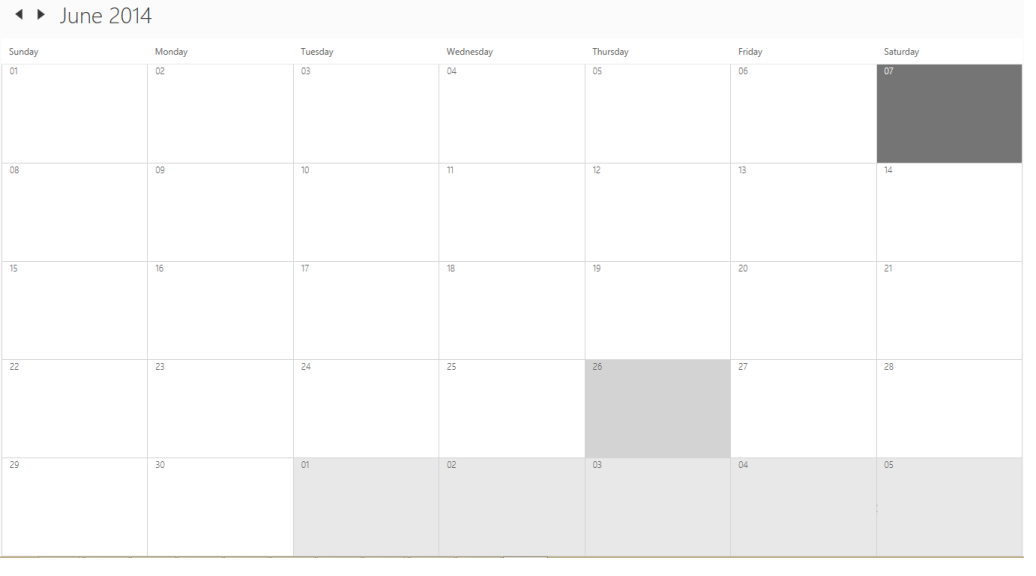
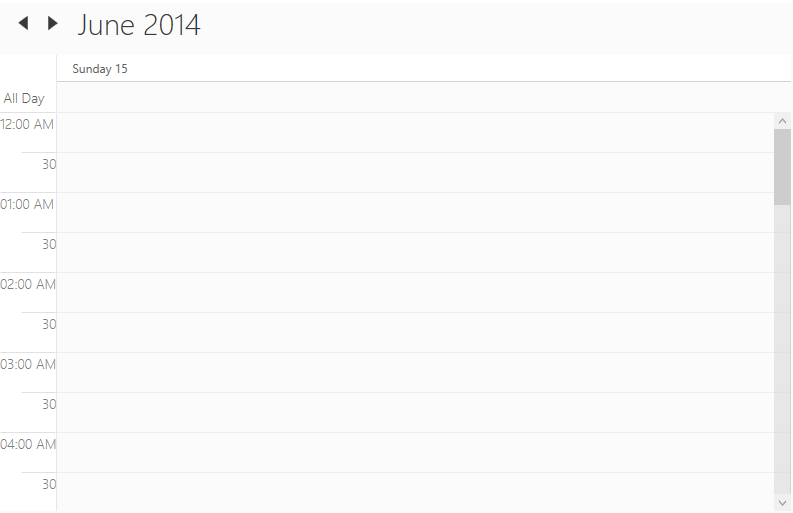
Basic view contents are modified.

diff --git a/wpf/SfSchedule/Basic-View.md b/wpf/SfSchedule/Basic-View.md
@@ -1,24 +1,27 @@
 ---
 layout: post
-title: Basic View| SfSchedule | Wpf | Syncfusion
-description: basic view
+title: Types of Schedule views at Syncfusion schedule for Wpf
+description: Learn what and all schedule views are available and how to use that views in SfSchedule control.
 platform: wpf
 control: SfSchedule
 documentation: ug
 ---
 
-# Basic View
+# Schedule Views
 
-Schedule provides 4 different types of viewing the calendar, 
+SfSchedule control provides five different types of views to display dates and it can be assigned to the control by using [ScheduleType](https://help.syncfusion.com/cr/wpf/Syncfusion.SfSchedule.WPF~Syncfusion.UI.Xaml.Schedule.ScheduleType.html) property. By default the control is assigned with `DayView`. Current date will be displayed initially for all the Schedule views.
+
+Schedule provides 5 different types of views which has mentioned below, 
 
 * Day
 * Week 
+* WorkWeek
 * Month
 * TimeLine
 
+## Day View
 
-
-Using the property “ScheduleType” of SfSchedule, we can set the above view. Refer to the following code to set the View type of schedule.
+`DayView` is used to display a single day, current day will be visible by default. Appointments on a specific day will be arranged in respective timeslots based on its duration.
 
 {% tabs %}
 {% highlight xaml %}
@@ -37,7 +40,7 @@ Using the property “ScheduleType” of SfSchedule, we can set the above view. 
 
     <Grid>
 
-        <schedule:SfSchedule ScheduleType="Month"/>
+        <schedule:SfSchedule ScheduleType="Day"/>
 
     </Grid>
 
@@ -56,25 +59,67 @@ namespace GettingStarted
 
         SfSchedule schedule = new SfSchedule();
 
-        schedule.ScheduleType = ScheduleType.Month;
+        schedule.ScheduleType = ScheduleType.Day;
 		
 		this.Content = schedule;
 	}
 	
 }
-
-this.grid.Children.Add(schedule);
-
-
 {% endhighlight %}
 {% endtabs %}
 
-![](Basic-View_images/Basic-View_img1.png)
+![Day-View](Basic-View_images/Basic-View_img1.png)
 
+## Week View
+`WeekView` is to view all days of a particular week. Appointments will be arranged based on the dates on the week in respective timeslots.
 
+{% tabs %}
+{% highlight xaml %}
+<schedule:SfSchedule x:Name="schedule" ScheduleType="Week"/>
+{% endhighlight%}
+{% highlight c# %}
+this.schedule.ScheduleType = ScheduleType.Week;
+{% endhighlight %}
+{% endtabs %}
 
-Month View Scheduling
-{:.caption}
+![Week-view](Basic-View_images/Basic-View_img2.png)
 
+## Work Week View
+`WorkWeekView` is to view only working days of a particular week. By default, Saturday and Sunday are the non-working days. You can be customize it with any days of a Week. Appointments arranged in timeslots based on its duration with respective day of the week.
 
+{% tabs %}
+{% highlight xaml %}
+<schedule:SfSchedule x:Name="schedule" ScheduleType="WorkWeek"/>
+{% endhighlight%}
+{% highlight c# %}
+this.schedule.ScheduleType = ScheduleType.WorkWeek;
+{% endhighlight %}
+{% endtabs %}
+![WorkWeek-view](Basic-View_images/Basic-View_img3.png)
 
+## Month View
+`MonthView` in Schedule control is to view entire dates of a particular month. Appointments can be placed in specified date.
+
+{% tabs %}
+{% highlight xaml %}
+<schedule:SfSchedule x:Name="schedule" ScheduleType="Month"/>
+{% endhighlight%}
+{% highlight c# %}
+this.schedule.ScheduleType = ScheduleType.Month;
+{% endhighlight %}
+{% endtabs %}
+![Month-view](Basic-View_images/Basic-View_img4.png)
+
+## TimeLine View
+`TimelineView` displays the dates in horizontal time axis with the desired day’s count. You can see the past or future dates by scrolling to the right or left. Each view displays events accurately across the time slots with an intuitive drag-and-drop feature.
+
+{% tabs %}
+{% highlight xaml %}
+<schedule:SfSchedule x:Name="schedule" ScheduleType="TimeLine"/>
+{% endhighlight%}
+{% highlight c# %}
+this.schedule.ScheduleType = ScheduleType.TimeLine;
+{% endhighlight %}
+{% endtabs %}
+
+![TimeLine-view](Basic-View_images/Basic-View_img4.png)
